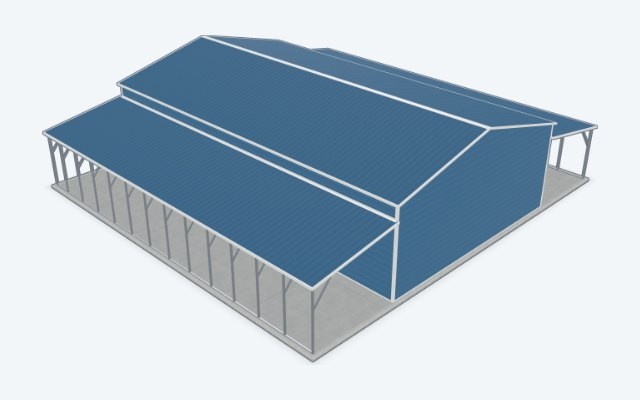
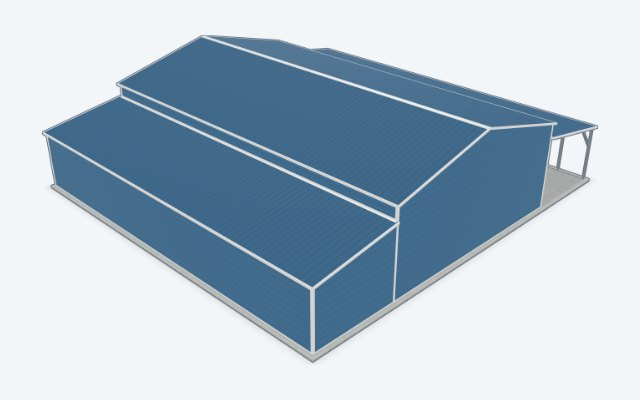
Design page: three barn styles (standard, raised center, straight roof) with pictures; raised drop by wall height

Changed region(s): [[0.0625, 0.33, 0.625, 0.9], [0.9062, 0.33, 0.9375, 0.39], [0.8438, 0.36, 0.875, 0.42]]

diff --git a/configurator/web-customer/src/model/guide.ts b/configurator/web-customer/src/model/guide.ts
@@ -7,11 +7,15 @@
  * Not offered: a free-standing lean-to. The builder has no such building (it only has lean-tos
  * attached to a building), so a card for it would promise something the quote cannot build.
  */
-import type { WebBuildingType, WebDesign } from './design';
+import type { LeanToSide, WebBuildingType, WebDesign, WebLeanTo } from './design';
+import { LEANTO_LOW_LEGS, LEANTO_WIDTHS } from './catalog';
+import { leanToConnH, pitchRise } from './rules';
 import { applyType } from '../panels/SizePanel';
 import { newLeanTo } from '../panels/LeanTosPanel';
 
 export type GuideStyle = 'carport' | 'partial' | 'garage' | 'utility' | 'ag';
+/** The three barn styles (owner 10/17/26): where the lean-to roofs meet the center building. */
+export type BarnStyle = 'standard' | 'raised' | 'straight';
 
 export interface SizePreset {
   label: string;
@@ -70,17 +74,75 @@ export const STYLES: Array<{
   { key: 'ag', title: 'Ag barn', blurb: 'A center building with a lean-to roof on each side', type: 'garage', walls: CLOSED, leanTos: true, sizes: [AG, TRACTOR] },
 ];
 
+export const BARNS: Array<{ key: BarnStyle; title: string; blurb: string }> = [
+  { key: 'standard', title: 'Standard barn', blurb: 'A lean-to on each side, starting 2′ below the roof edge: one closed in, one open' },
+  { key: 'raised', title: 'Raised center barn', blurb: 'A taller center building; open lean-tos start 1–4′ below its roof edge, by wall height' },
+  { key: 'straight', title: 'Straight roof barn', blurb: 'One continuous roof line: the lean-tos carry the roof down on both sides' },
+];
+
+/** Raised center barn: how far below the eave the lean-tos start, by wall height (owner 10/17/26; 17′ was not named: 3′). */
+export const raisedDrop = (wallHeight: number): 1 | 2 | 3 | 4 => (wallHeight <= 10 ? 1 : wallHeight <= 14 ? 2 : wallHeight <= 17 ? 3 : 4);
+
+/** Where a barn's lean-tos meet the center building: feet below its eave, and which slopes may be used. */
+function barnJoin(d: WebDesign, barn: BarnStyle): { conn: number; pitches: Array<'2:12' | '3:12'> } {
+  if (barn === 'standard') return { conn: d.height - 2, pitches: ['2:12', '3:12'] };
+  if (barn === 'raised') return { conn: d.height - raisedDrop(d.height), pitches: ['2:12', '3:12'] };
+  // straight roof: meets the eave exactly, on the center building's own slope
+  return { conn: d.height, pitches: [pitchRise(d) === 3 ? '3:12' : '2:12'] };
+}
+
+/**
+ * A barn lean-to on one side. The join the barn style wants is made exactly when the lean-to sizes
+ * allow it (12′ wide first, then the nearest width; the 2:12 slope first); when no size gives it
+ * exactly, the closest join below it is used, and never one above the eave.
+ */
+function barnLeanTo(d: WebDesign, side: LeanToSide, barn: BarnStyle, enclosed: boolean): WebLeanTo {
+  const lt = newLeanTo(d, side);
+  const { conn, pitches } = barnJoin(d, barn);
+  type Pick = { w: number; leg: number; pitch: '2:12' | '3:12'; c: number };
+  const all: Pick[] = [];
+  for (const pitch of pitches) for (const w of LEANTO_WIDTHS) for (const leg of LEANTO_LOW_LEGS) {
+    const c = leanToConnH({ lowLeg: leg, width: w, pitch });
+    if (c <= d.height + 1e-9) all.push({ w, leg, pitch, c });
+  }
+  const order = (p: Pick) => [Math.abs(p.w - 12), pitches.indexOf(p.pitch)];
+  const better = (p: Pick, q: Pick) => {
+    const [pw, pp] = order(p);
+    const [qw, qp] = order(q);
+    return pw !== qw ? pw < qw : pp < qp;
+  };
+  const under = all.filter((p) => p.c <= conn + 1e-9);
+  let best: Pick | null = null;
+  if (under.length) {
+    const top = Math.max(...under.map((p) => p.c));
+    for (const p of under) if (Math.abs(p.c - top) < 1e-9 && (!best || better(p, best))) best = p;
+  } else if (all.length) {
+    const low = Math.min(...all.map((p) => p.c)); // nothing reaches that low: the lowest join that is allowed
+    for (const p of all) if (Math.abs(p.c - low) < 1e-9 && (!best || better(p, best))) best = p;
+  }
+  if (!best) return { ...lt, enclosure: enclosed ? 'enclosed' : 'open' };
+  return { ...lt, width: best.w, lowLeg: best.leg, pitch: best.pitch, enclosure: enclosed ? 'enclosed' : 'open' };
+}
+
+/** How far below the center building's eave a lean-to meets it (ft) - for tests and the screen text. */
+export const joinDrop = (d: Pick<WebDesign, 'height'>, lt: Pick<WebLeanTo, 'lowLeg' | 'width' | 'pitch'>) => d.height - leanToConnH(lt);
+
 /** Put a chosen style + starting size on a design (the caller normalizes it). Starts from no lean-tos. */
-export function applyStyle(d: WebDesign, style: GuideStyle, p: SizePreset): void {
+export function applyStyle(d: WebDesign, style: GuideStyle, p: SizePreset, barn: BarnStyle = 'standard'): void {
   const s = STYLES.find((x) => x.key === style)!;
   applyType(d, s.type);
   d.width = p.w;
   d.length = p.l;
   d.height = p.h;
   d.walls = { ...s.walls };
+  d.pitch = 'standard'; // a fresh pick starts from the standard roof slope
   // a closed room in back takes about 60% of the length, like picking the type on the Size step
   if (s.type === 'combo') d.enclosedLength = Math.max(5, Math.min(p.l - 5, Math.round(p.l * 0.6)));
   d.leanTos = [];
   d.wraps = [];
-  if (s.leanTos) for (const side of ['Left Eave', 'Right Eave'] as const) d.leanTos.push(newLeanTo(d, side));
+  if (s.leanTos) {
+    // standard barn: the left lean-to closed in, the right one open; the others: both open
+    d.leanTos.push(barnLeanTo(d, 'Left Eave', barn, barn === 'standard'));
+    d.leanTos.push(barnLeanTo(d, 'Right Eave', barn, false));
+  }
 }

diff --git a/configurator/web-customer/src/Guide.tsx b/configurator/web-customer/src/Guide.tsx
@@ -8,7 +8,7 @@
 import { useEffect, useRef, type ReactNode } from 'react';
 import { useEditorStore } from '@/store/useEditorStore';
 import { useWebStore, type GuideStep } from './store';
-import { applyStyle, STYLES, type SizePreset } from './model/guide';
+import { applyStyle, BARNS, STYLES, type SizePreset } from './model/guide';
 import { cameraApi } from './cameraFit';
 
 // Pictures made from our own 3D model (tools/make-guide-pictures.mjs).
@@ -21,6 +21,8 @@ export function Guide({ banner, onUndo }: { banner?: ReactNode; onUndo?: (() => 
   const setGuide = useWebStore((s) => s.setGuide);
   const style = useWebStore((s) => s.guideStyle);
   const setStyle = useWebStore((s) => s.setGuideStyle);
+  const barn = useWebStore((s) => s.guideBarn);
+  const setBarn = useWebStore((s) => s.setGuideBarn);
   const update = useWebStore((s) => s.update);
   const setTab = useWebStore((s) => s.setTab);
   const headRef = useRef<HTMLHeadingElement>(null);
@@ -39,8 +41,9 @@ export function Guide({ banner, onUndo }: { banner?: ReactNode; onUndo?: (() => 
   }, [step]);
   // A size screen needs a style: a way in without one (should not happen) asks the style first.
   useEffect(() => {
-    if (step === 'size' && !st) setGuide('style');
-  }, [step, st, setGuide]);
+    if ((step === 'size' || step === 'barn') && !st) setGuide('style');
+    else if (step === 'size' && st?.leanTos && !barn) setGuide('barn');
+  }, [step, st, barn, setGuide]);
 
   const toBuilder = () => {
     setTab('size');
@@ -53,7 +56,7 @@ export function Guide({ banner, onUndo }: { banner?: ReactNode; onUndo?: (() => 
   };
   const chooseSize = (size: SizePreset) => {
     if (!st) return;
-    update((d) => applyStyle(d, st.key, size));
+    update((d) => applyStyle(d, st.key, size, barn ?? 'standard'));
     toBuilder();
   };
   // own size: the kind of building is kept (its walls and lean-tos too), the size boxes are theirs
@@ -62,7 +65,7 @@ export function Guide({ banner, onUndo }: { banner?: ReactNode; onUndo?: (() => 
     update((d) => applyStyle(d, st.key, { label: '', w: d.width, l: d.length, h: d.height }));
     toBuilder();
   };
-  const back = () => setGuide(step === 'size' ? 'style' : 'welcome');
+  const back = () => setGuide(step === 'size' ? (st?.leanTos ? 'barn' : 'style') : step === 'barn' ? 'style' : 'welcome');
 
   return (
     <section className="guide" aria-label="Guided start">
@@ -106,10 +109,36 @@ export function Guide({ banner, onUndo }: { banner?: ReactNode; onUndo?: (() => 
                   className="guide-card"
                   onClick={() => {
                     setStyle(x.key);
-                    setGuide('size');
+                    setGuide(x.leanTos ? 'barn' : 'size');
                   }}
                 >
                   <img className="guide-pic" src={PICTURE(x.key)} alt="" width="120" height="75" loading="lazy" decoding="async" />
+                  <span className="guide-card-text">
+                    <span className="guide-card-title">{x.title}</span>
+                    <span className="guide-card-blurb">{x.blurb}</span>
+                  </span>
+                </button>
+              ))}
+            </div>
+          </>
+        )}
+
+        {step === 'barn' && (
+          <>
+            <h1 className="guide-h" tabIndex={-1} ref={headRef}>Which barn style?</h1>
+            <p className="guide-p">Each has a lean-to roof on both sides of a center building. You can change the details later.</p>
+            <div className="guide-list">
+              {BARNS.map((x) => (
+                <button
+                  key={x.key}
+                  type="button"
+                  className="guide-card"
+                  onClick={() => {
+                    setBarn(x.key);
+                    setGuide('size');
+                  }}
+                >
+                  <img className="guide-pic" src={PICTURE('barn-' + x.key)} alt="" width="120" height="75" loading="lazy" decoding="async" />
                   <span className="guide-card-text">
                     <span className="guide-card-title">{x.title}</span>
                     <span className="guide-card-blurb">{x.blurb}</span>
@@ -125,7 +154,7 @@ export function Guide({ banner, onUndo }: { banner?: ReactNode; onUndo?: (() => 
             <h1 className="guide-h" tabIndex={-1} ref={headRef}>How much room?</h1>
             <p className="guide-p">
               {st.title}: pick a starting size. You can change it on the next screen.
-              {st.leanTos ? ' The size is the center building; a 12′ lean-to goes on each side.' : ''}
+              {st.leanTos ? ' The size is the center building; the lean-tos are added on each side of it.' : ''}
             </p>
             <div className="guide-list">
               {st.sizes.map((s) => (

diff --git a/configurator/web-customer/__tests__/guide.test.ts b/configurator/web-customer/__tests__/guide.test.ts
@@ -4,8 +4,8 @@
 import { describe, expect, it } from 'vitest';
 import { cloneDesign, DEFAULT_DESIGN } from '../src/model/design';
 import { normalizeDesign } from '../src/model/normalize';
-import { applyStyle, STYLES } from '../src/model/guide';
-import { heightOptions, isWideSpan, widthOptions } from '../src/model/rules';
+import { applyStyle, BARNS, joinDrop, raisedDrop, STYLES } from '../src/model/guide';
+import { heightOptions, isWideSpan, pitchRise, widthOptions } from '../src/model/rules';
 
 describe('guided starting sizes', () => {
   it('the five styles the owner asked for, in plain words', () => {
@@ -48,24 +48,51 @@ describe('guided starting sizes', () => {
     }
   });
 
-  it('an ag barn is the center building plus a 12′ lean-to on each side, kept by the rules', () => {
-    const ag = STYLES.find((s) => s.key === 'ag')!;
-    for (const s of ag.sizes) {
-      const n = normalizeDesign(applyStyle2(ag.key, s), false);
-      expect(n.type).toBe('garage');
-      expect(n.leanTos.map((l) => l.side).sort()).toEqual(['Left Eave', 'Right Eave']);
-      for (const l of n.leanTos) {
-        expect(l.width).toBe(12);
-        expect(l.length).toBe(s.l);
-        expect(l.enclosure).toBe('open');
+  it('three barn styles, the way the owner described them (10/17/26)', () => {
+    expect(BARNS.map((x) => x.title)).toEqual(['Standard barn', 'Raised center barn', 'Straight roof barn']);
+    const ag = STYLES.find((x) => x.key === 'ag')!;
+    for (const size of ag.sizes) {
+      for (const barn of ['standard', 'raised', 'straight'] as const) {
+        const d = cloneDesign(DEFAULT_DESIGN);
+        applyStyle(d, 'ag', size, barn);
+        const n = normalizeDesign(d, false);
+        expect(n.type).toBe('garage');
+        expect([n.width, n.length, n.height]).toEqual([size.w, size.l, size.h]);
+        expect(n.leanTos.map((l) => l.side)).toEqual(['Left Eave', 'Right Eave']);
+        // the rules keep every lean-to as built (nothing is snapped to something else)
+        expect(n.leanTos).toEqual(d.leanTos);
+        for (const l of n.leanTos) {
+          expect(l.length).toBe(size.l);
+          const drop = joinDrop(n, l);
+          if (barn === 'standard') expect(drop).toBeCloseTo(2, 9);
+          if (barn === 'raised') expect(drop).toBeCloseTo(raisedDrop(size.h), 9);
+          if (barn === 'straight') {
+            expect(drop).toBeCloseTo(0, 9); // meets the eave exactly...
+            expect(l.pitch).toBe(pitchRise(n) === 3 ? '3:12' : '2:12'); // ...on the center building's own slope
+          }
+        }
+        // standard: one lean-to closed in, the other open; the other barns: both open
+        expect(n.leanTos.map((l) => l.enclosure)).toEqual(barn === 'standard' ? ['enclosed', 'open'] : ['open', 'open']);
       }
+    }
+  });
+
+  it('raised center barn: the drop follows the wall height (10 or less 1′, 11-14 2′, 15-16 3′, 18-20 4′)', () => {
+    for (const [h, drop] of [[6, 1], [8, 1], [10, 1], [11, 2], [12, 2], [14, 2], [15, 3], [16, 3], [17, 3], [18, 4], [20, 4]] as const) expect(raisedDrop(h)).toBe(drop);
+    // and the exact join is built at every wall height from 9′ to 20′ (a 3:12 lean-to where 2:12 has no leg that fits)
+    for (let h = 9; h <= 20; h++) {
+      const d = cloneDesign(DEFAULT_DESIGN);
+      applyStyle(d, 'ag', { label: '', w: h > 16 ? 40 : 24, l: 40, h }, 'raised');
+      const n = normalizeDesign(d, false);
+      expect(n.leanTos).toEqual(d.leanTos);
+      for (const l of n.leanTos) expect(joinDrop(n, l), 'height ' + h).toBeCloseTo(raisedDrop(h), 9);
     }
   });
 
   it('no other style has lean-tos, and picking again replaces the last pick (Back, then another style)', () => {
     const d = cloneDesign(DEFAULT_DESIGN);
     const ag = STYLES.find((s) => s.key === 'ag')!;
-    applyStyle(d, 'ag', ag.sizes[0]);
+    applyStyle(d, 'ag', ag.sizes[0], 'standard');
     expect(d.leanTos).toHaveLength(2);
     const carport = STYLES.find((s) => s.key === 'carport')!;
     applyStyle(d, 'carport', carport.sizes[0]);

diff --git a/configurator/web-customer/src/store.ts b/configurator/web-customer/src/store.ts
@@ -4,7 +4,7 @@
  * (sync.ts) — the only thing that flows back is where a door was dragged.
  */
 import { create } from 'zustand';
-import type { GuideStyle } from './model/guide';
+import type { BarnStyle, GuideStyle } from './model/guide';
 import { cloneDesign, DEFAULT_DESIGN, STATE_SCHEMA, STATE_VERSION, type WebContext, type WebDesign, type WebState } from './model/design';
 import { normalizeDesign } from './model/normalize';
 import { impactRequired } from './model/rules';
@@ -12,7 +12,7 @@ import { countyForZip } from './model/flZips';
 import { EMPTY_CONTACT, type Contact, type LinkStatus } from './model/link';
 
 /** The guided start screens (null = the builder itself). */
-export type GuideStep = 'welcome' | 'style' | 'size';
+export type GuideStep = 'welcome' | 'style' | 'barn' | 'size';
 
 export type TabKey = 'size' | 'walls' | 'doors' | 'leantos' | 'upgrades' | 'colors' | 'send';
 
@@ -27,6 +27,8 @@ interface WebStore {
   /** The building style picked in the guided questions (so Back from the builder returns to the sizes). */
   guideStyle: GuideStyle | null;
   setGuideStyle: (s: GuideStyle | null) => void;
+  guideBarn: BarnStyle | null;
+  setGuideBarn: (b: BarnStyle | null) => void;
   /** Overlay text while a picture is being made (null = none). */
   busy: string | null;
   /** Edit a copy of the design; the result is normalized against the rules. */
@@ -67,6 +69,8 @@ export const useWebStore = create<WebStore>((set, get) => ({
   setGuide: (guide) => set({ guide }),
   guideStyle: null,
   setGuideStyle: (guideStyle) => set({ guideStyle }),
+  guideBarn: null,
+  setGuideBarn: (guideBarn) => set({ guideBarn }),
   busy: null,
   update: (edit) => {
     const draft = cloneDesign(get().design);

diff --git a/configurator/web-customer/src/App.tsx b/configurator/web-customer/src/App.tsx
@@ -406,6 +406,7 @@ export function App() {
   const guide = useWebStore((s) => s.guide);
   const setGuide = useWebStore((s) => s.setGuide);
   const setGuideStyle = useWebStore((s) => s.setGuideStyle);
+  const setGuideBarn = useWebStore((s) => s.setGuideBarn);
   const replace = useWebStore((s) => s.replace);
   const selMain = useEditorStore((s) => s.selectedOpeningId);
   const selLean = useEditorStore((s) => s.selectedLeanToOpeningId);
@@ -448,6 +449,7 @@ export function App() {
     // on its own page, starting over goes back to the first screen (the guided questions)
     if (!FRAMED) {
       setGuideStyle(null);
+      setGuideBarn(null);
       setGuide('welcome');
       return;
     }
